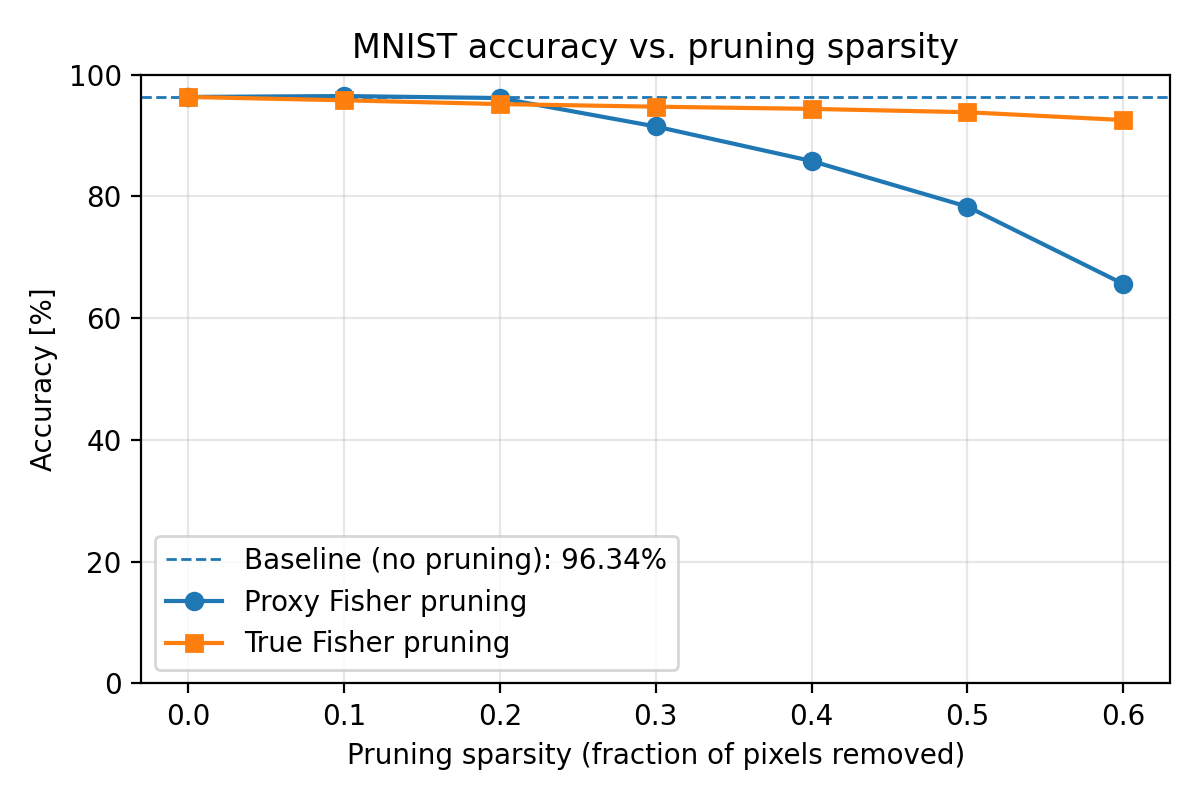
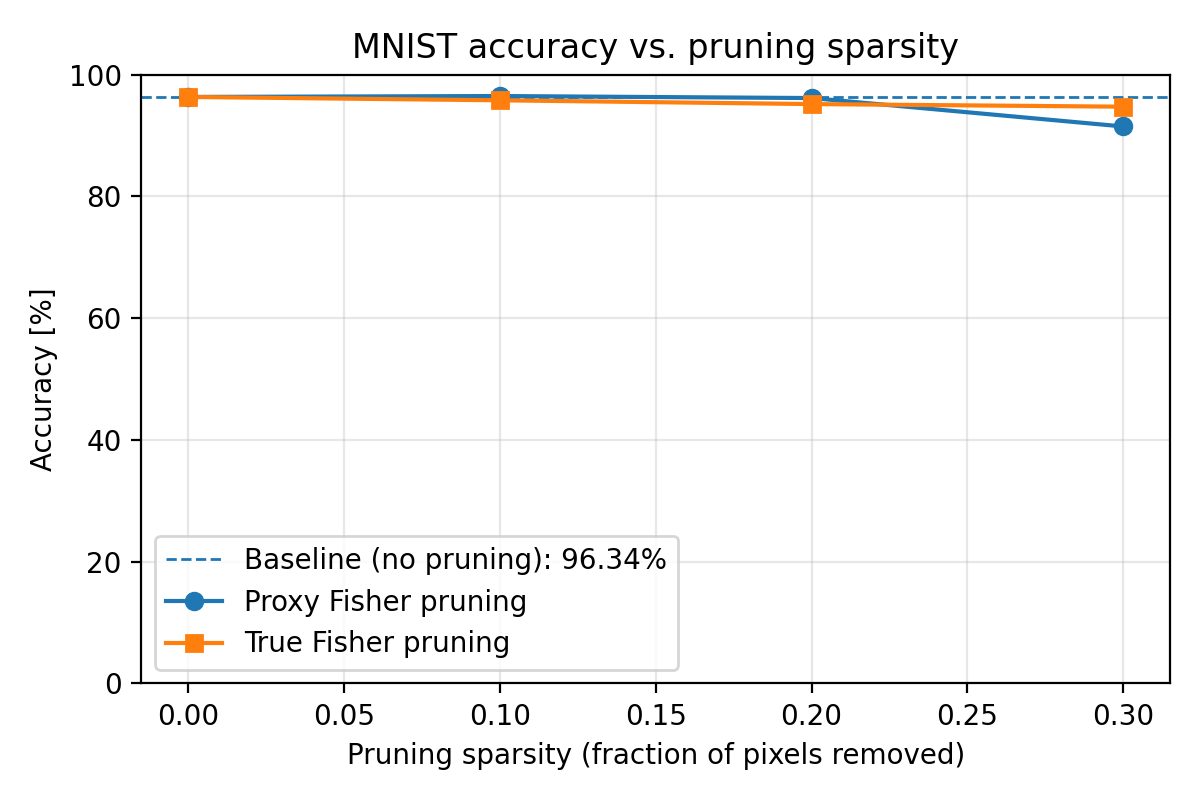
clean up & diagnostics; large fraction pruning not working yet

diff --git a/examples/eval_pruning_with_proxy.py b/examples/eval_pruning_with_proxy.py
@@ -7,7 +7,7 @@
 # mnist_training_example.py.
 
 DEBUG_PROXY_ONCE = True
-DEBUG_TRUE_ONCE = True
+DEBUG_TRUE_ONCE = True  # currently unused, kept for future debugging
 
 import os
 import torch
@@ -23,7 +23,9 @@ from mnist_djc_wrapper import MNIST_DJC
 from trainer_extensions import compute_fisher_per_image
 
 
-# pruning
+# ----------------------------------------------------------------------
+# Pruning helper
+# ----------------------------------------------------------------------
 def apply_per_image_pruning(inputs, fisher_map, sparsity: float) -> torch.Tensor:
     """
     Per-image pruning based on Fisher importance.
@@ -50,8 +52,7 @@ def apply_per_image_pruning(inputs, fisher_map, sparsity: float) -> torch.Tensor
     for i in range(B):
         fi = fisher_flat[i]  # [num_pixels]
 
-        # Indices of the k smallest Fisher values
-        # (largest=False gives smallest; no thresholding ambiguity)
+        # Indices of the k smallest Fisher values (no threshold ambiguity)
         _, idx_small = torch.topk(fi, k, largest=False)
 
         # Start with all-ones mask
@@ -64,6 +65,60 @@ def apply_per_image_pruning(inputs, fisher_map, sparsity: float) -> torch.Tensor
     return pruned
 
 
+# ----------------------------------------------------------------------
+# Plotting helper
+# ----------------------------------------------------------------------
+def plot_accuracy_vs_sparsity(
+    sparsities,
+    baseline_acc,
+    proxy_acc_dict,
+    true_acc_dict,
+    out_dir="pruning_plots",
+    filename="accuracy_vs_sparsity.png",
+):
+    """
+    Plot Accuracy vs Sparsity for:
+      - baseline (no pruning)
+      - proxy-based Fisher pruning
+      - true Fisher pruning
+
+    sparsities      : iterable of sparsity values (floats)
+    baseline_acc    : scalar baseline accuracy (no pruning)
+    proxy_acc_dict  : dict mapping sparsity -> accuracy (proxy FI)
+    true_acc_dict   : dict mapping sparsity -> accuracy (true FI)
+    """
+
+    os.makedirs(out_dir, exist_ok=True)
+    out_path = os.path.join(out_dir, filename)
+
+    # Ensure consistent ordering
+    sparsities = sorted(sparsities)
+
+    baseline_vals = [baseline_acc for _ in sparsities]
+    proxy_vals    = [proxy_acc_dict[s] for s in sparsities]
+    true_vals     = [true_acc_dict[s] for s in sparsities]
+
+    plt.figure(figsize=(6, 4))
+    plt.plot(sparsities, baseline_vals, marker="o", label="Baseline (no pruning)")
+    plt.plot(sparsities, proxy_vals,    marker="o", label="Proxy FI pruning")
+    plt.plot(sparsities, true_vals,     marker="o", label="True FI pruning")
+
+    plt.xlabel("Sparsity (fraction of pixels pruned)")
+    plt.ylabel("Accuracy [%]")
+    plt.title("MNIST – Accuracy vs Sparsity")
+    plt.grid(True, alpha=0.3)
+    plt.legend()
+    plt.tight_layout()
+    plt.savefig(out_path, dpi=200)
+    plt.close()
+
+    print(f"\nSaved Accuracy vs Sparsity plot to: {out_path}")
+    return out_path
+
+
+# ----------------------------------------------------------------------
+# Evaluation helper
+# ----------------------------------------------------------------------
 def evaluate_accuracy(
     model: MNISTModel,
     dataloader: DataLoader,
@@ -71,12 +126,17 @@ def evaluate_accuracy(
     mode: str = "none",
     sparsity: float = 0.0,
 ):
+    """
+    mode:
+      - "none"  : no pruning
+      - "proxy" : use model.compute_approx_fisher_per_image
+      - "true"  : use compute_fisher_per_image with gradients
+    """
     model.eval()
     total = 0
     correct = 0
 
     compute_true_fisher = (mode == "true")
-    use_proxy_fisher = (mode == "proxy")
 
     for batch in dataloader:
         x = batch["inputs"].to(device)   # [B,1,28,28]
@@ -88,13 +148,12 @@ def evaluate_accuracy(
             fi_true = compute_fisher_per_image(
                 model,
                 {"inputs": x, "labels": y},
-                model._fisher_ce,  # your CE loss for FI
+                model._fisher_ce,  # CE loss for FI
             )  # [B,1,28,28]
 
             x_in = apply_per_image_pruning(x, fi_true, sparsity)
 
-            # We don't need grads for the classification itself, so we can
-            # optionally turn no_grad on just for the forward_logits call:
+            # We don't need grads for classification itself
             with torch.no_grad():
                 logits = model.forward_logits(x_in)
 
@@ -122,7 +181,6 @@ def evaluate_accuracy(
                             f"mean={fisher_hat.mean().item():.4g}"
                         )
                         DEBUG_PROXY_ONCE = False
-
                 else:
                     x_in = x
 
@@ -135,6 +193,9 @@ def evaluate_accuracy(
     return 100.0 * correct / total
 
 
+# ----------------------------------------------------------------------
+# main
+# ----------------------------------------------------------------------
 def main():
     device = torch.device("cuda" if torch.cuda.is_available() else "cpu")
 
@@ -181,8 +242,7 @@ def main():
     # ------------------------------
     # W&B init
     # ------------------------------
-    # You can adjust this grid if you like
-    sparsity_list = [0.0, 0.1, 0.2, 0.3, 0.4, 0.5, 0.6]
+    sparsity_list = [0.0, 0.1, 0.2, 0.3]  # adjust as you like (true FI gets heavy!)
 
     wandb_wrapper.init(
         project="mnist_pruning_eval",
@@ -213,7 +273,6 @@ def main():
         proxy_results.append((s, acc))
         print(f"[Proxy] sparsity={s:.2f}, accuracy={acc:.2f}%")
 
-        # wandb_wrapper.log expects (metric_name, value)
         wandb_wrapper.log("sparsity", s)
         wandb_wrapper.log("accuracy_proxy", acc)
         wandb_wrapper.flush()
@@ -234,69 +293,38 @@ def main():
         wandb_wrapper.log("accuracy_true_fisher", acc)
         wandb_wrapper.flush()
 
+    # Convert to dicts for easy lookup
+    acc_proxy = dict(proxy_results)
+    acc_true  = dict(true_results)
+
     # ------------------------------
-    # Make a Matplotlib plot: accuracy vs sparsity
+    # Summary printout
     # ------------------------------
-    fig, ax = plt.subplots(figsize=(6, 4))
-
-    # Unpack results
-    sparsities = sparsity_list
-    proxy_accs = [dict(proxy_results)[s] for s in sparsities]
-    true_accs = [dict(true_results)[s] for s in sparsities] if true_results else None
-
-    # Baseline as horizontal line
-    ax.axhline(
-        baseline_acc,
-        linestyle="--",
-        linewidth=1.0,
-        label=f"Baseline (no pruning): {baseline_acc:.2f}%",
-    )
-
-    ax.plot(
-        sparsities,
-        proxy_accs,
-        marker="o",
-        linestyle="-",
-        label="Proxy Fisher pruning",
-    )
-
-    if true_accs is not None:
-        ax.plot(
-            sparsities,
-            true_accs,
-            marker="s",
-            linestyle="-",
-            label="True Fisher pruning",
+    print("\n=== Summary: Accuracy vs Sparsity ===")
+    print("sparsity   baseline   proxy_FI   true_FI")
+    for s in sparsity_list:
+        print(
+            f"{s:8.2f}  "
+            f"{baseline_acc:9.2f}  "
+            f"{acc_proxy[s]:9.2f}  "
+            f"{acc_true[s]:8.2f}"
         )
 
-    ax.set_xlabel("Pruning sparsity (fraction of pixels removed)")
-    ax.set_ylabel("Accuracy [%]")
-    ax.set_title("MNIST accuracy vs. pruning sparsity")
-    ax.set_ylim(0, 100)
-    ax.grid(True, alpha=0.3)
-    ax.legend()
+    # ------------------------------
+    # Plot all curves & log to W&B
+    # ------------------------------
+    plot_path = plot_accuracy_vs_sparsity(
+        sparsities=sparsity_list,
+        baseline_acc=baseline_acc,
+        proxy_acc_dict=acc_proxy,
+        true_acc_dict=acc_true,
+    )
 
-    plot_path = "mnist_pruning_curves.png"
-    plt.tight_layout()
-    plt.savefig(plot_path, dpi=200)
-    plt.close(fig)
-
-    # Log plot to W&B as image if run is active
     if getattr(wandb_wrapper, "initialized", False):
         img = wandb.Image(plot_path, caption="Accuracy vs pruning sparsity")
         wandb.log({"pruning_curves": img})
 
     wandb_wrapper.finish()
-
-    # Final summary printout
-    print("\n=== Summary: Accuracy vs Sparsity ===")
-    print("sparsity   baseline   proxy_FI   true_FI")
-    for s in sparsities:
-        proxy_acc = dict(proxy_results).get(s, float("nan"))
-        true_acc = dict(true_results).get(s, float("nan"))
-        print(
-            f"{s:8.2f}  {baseline_acc:8.2f}  {proxy_acc:8.2f}  {true_acc:8.2f}"
-        )
 
 
 if __name__ == "__main__":
